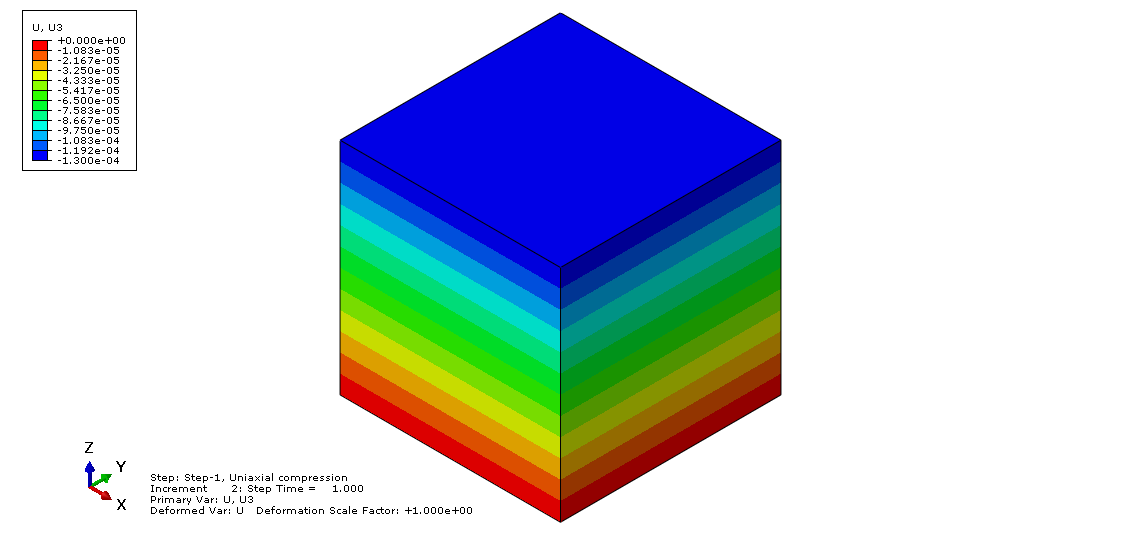
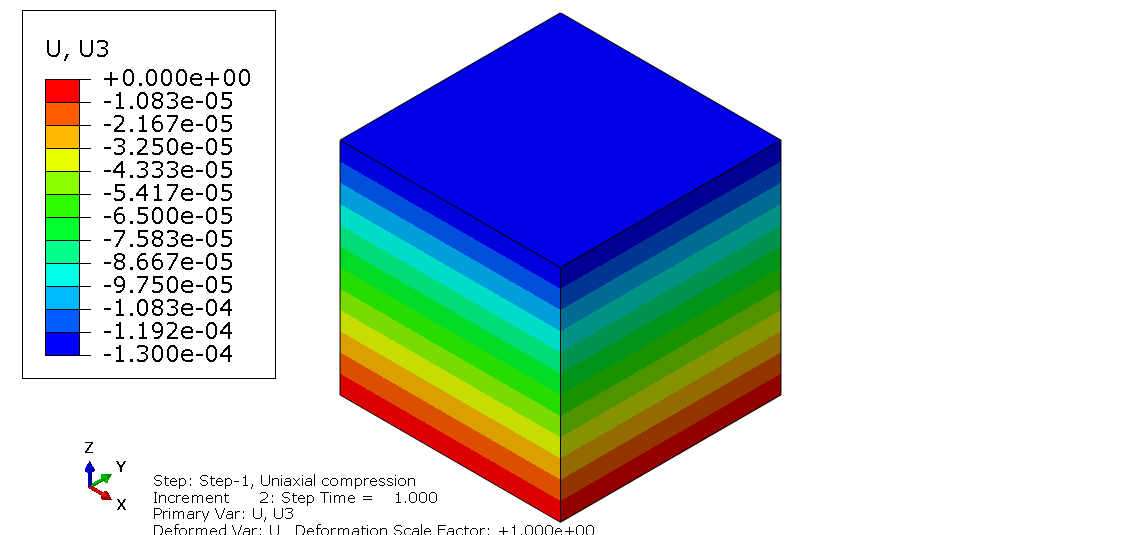
add doc

Changed region(s): [[0.0312, 0.0598, 0.2186, 0.6879], [0.1249, 0.8673, 0.4371, 1.0], [0.4683, 0.9869, 0.5308, 1.0]]

diff --git a/01_Lesson/abaqus_input_files/post_process_plots.py b/01_Lesson/abaqus_input_files/post_process_plots.py
@@ -37,7 +37,9 @@ v.setColor(initialColor='#BDBDBD')
 cmap=v.colorMappings['Section']
 cmap.updateOverrides(overrides={'PART-1-1.PDD_1MM.Section-PDD_1MM':(True, '#999999', 'Default', '#999999')})
 v.disableMultipleColors()
-v.viewportAnnotationOptions.setValues(legendFont='-*-verdana-medium-r-normal-*-*-80-*-*-p-*-*-*', titleFont='-*-verdana-medium-r-normal-*-*-80-*-*-p-*-*-*', stateFont='-*-verdana-medium-r-normal-*-*-80-*-*-p-*-*-*')
+##v.viewportAnnotationOptions.setValues(legendFont='-*-verdana-medium-r-normal-*-*-80-*-*-p-*-*-*', titleFont='-*-verdana-medium-r-normal-*-*-80-*-*-p-*-*-*', stateFont='-*-verdana-medium-r-normal-*-*-80-*-*-p-*-*-*')
+# set legend font size
+v.viewportAnnotationOptions.setValues(legendFont='-*-verdana-medium-r-normal-*-*-180-*-*-p-*-*-*')
 v.viewportAnnotationOptions.setValues(titleBackgroundStyle=MATCH, stateBackgroundStyle=MATCH, legendBackgroundStyle=MATCH,compass=OFF)
 v.odbDisplay.basicOptions.setValues(connectorDisplay=OFF)
 session.printOptions.setValues(reduceColors=False)
